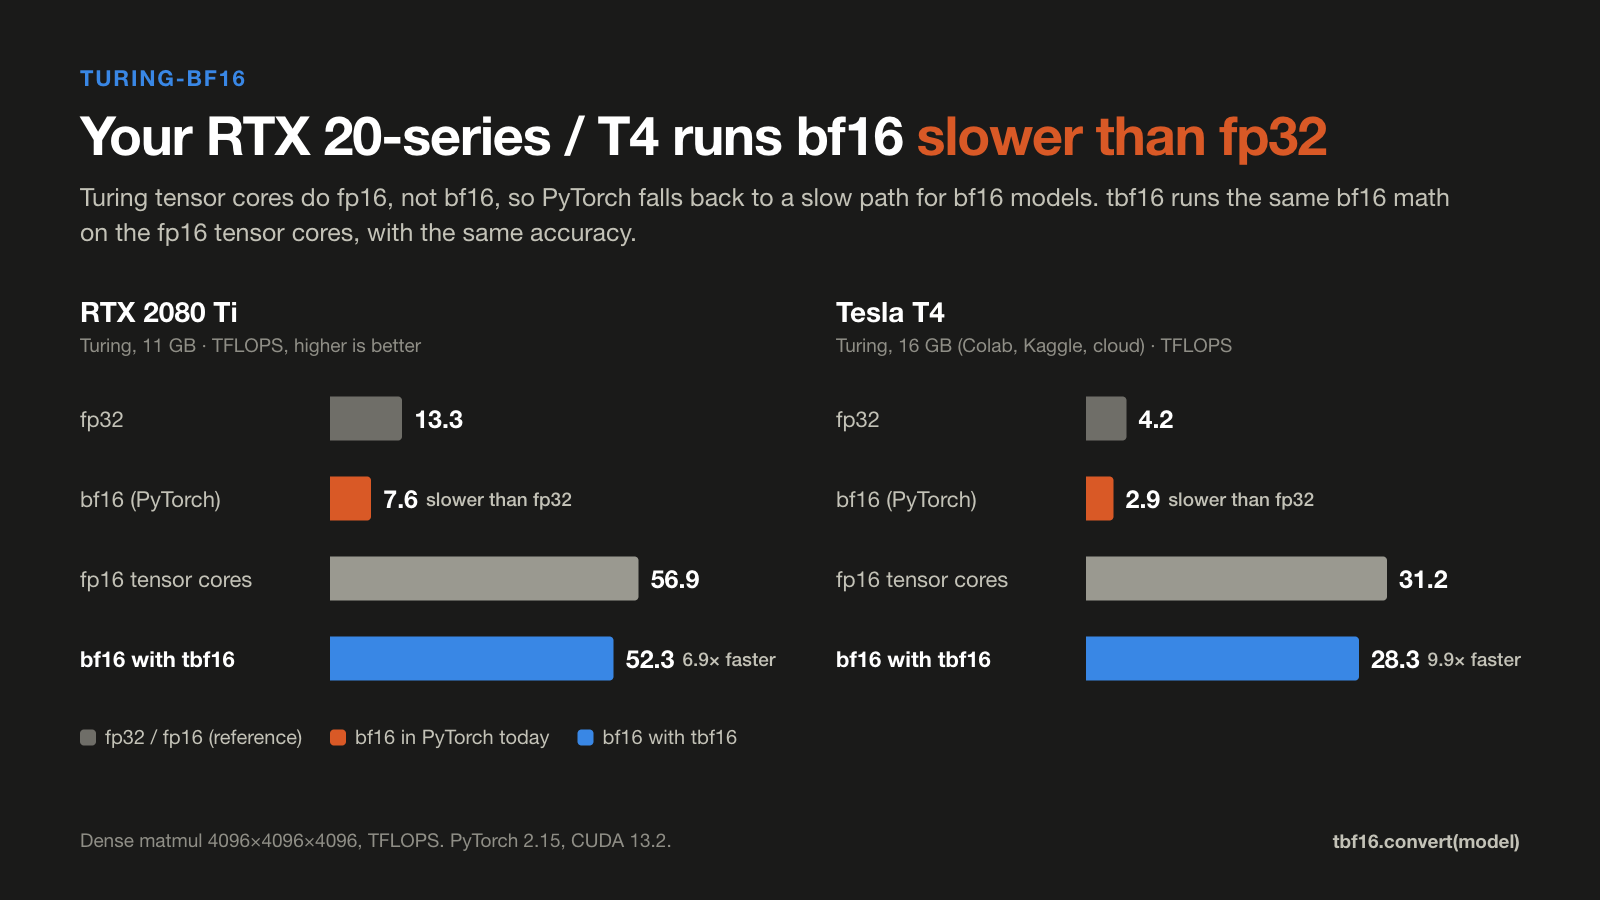
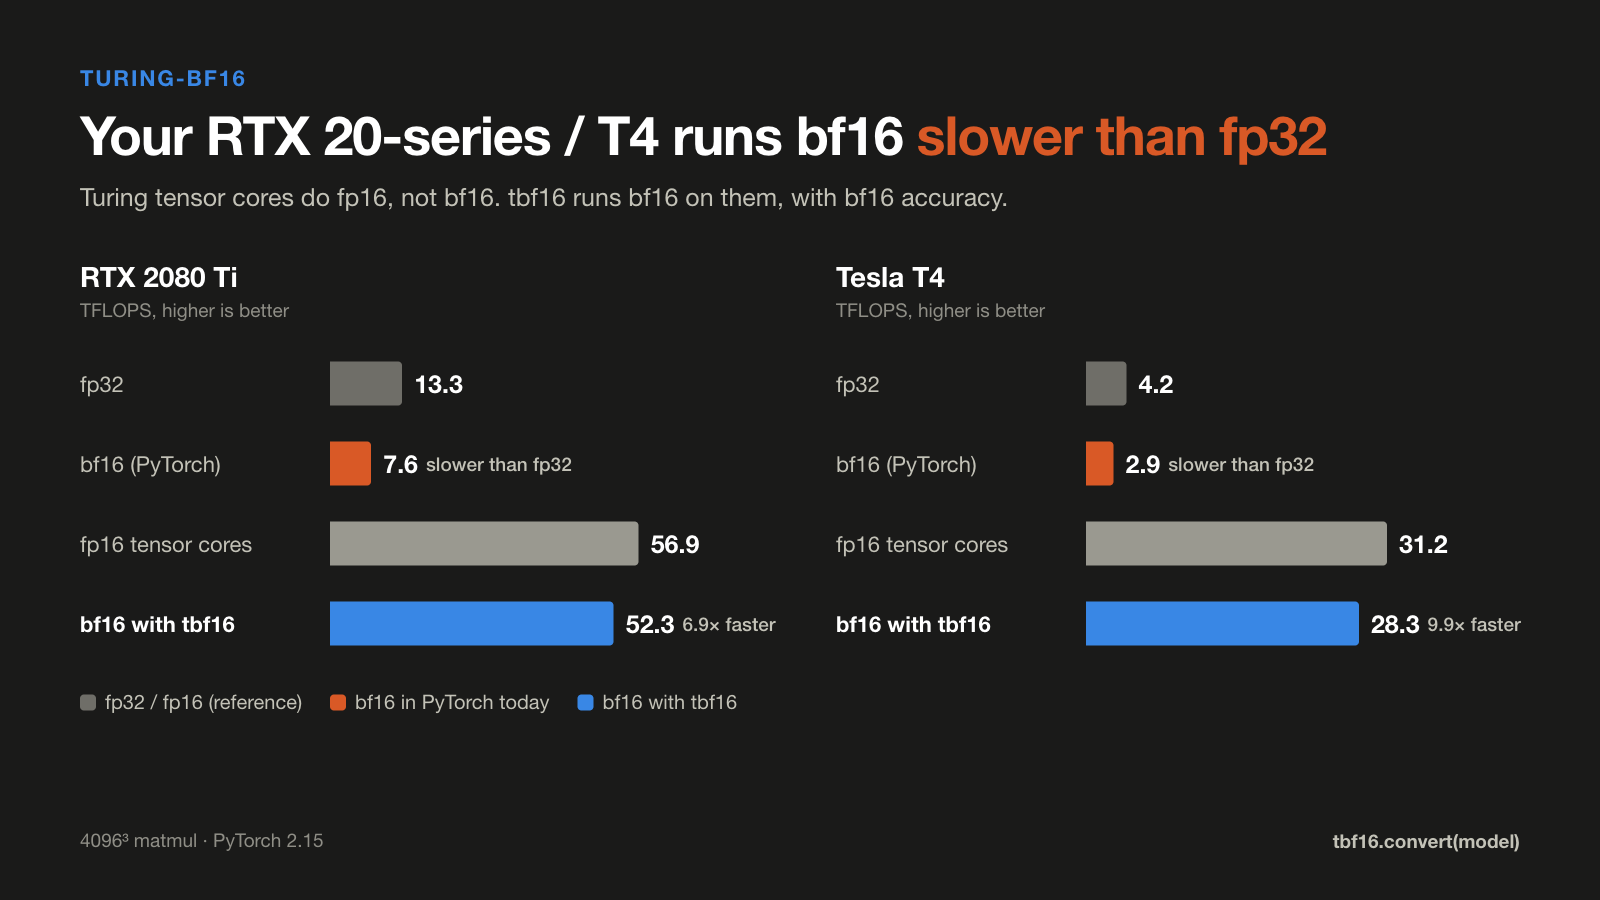
turing-bf16: social images with less text, 'same accuracy' instead of 'same output'; shorter thread

diff --git a/docs/social/2_why.html b/docs/social/2_why.html
@@ -22,25 +22,25 @@
 .steps b { color: var(--text-primary); font-weight: 600; }
 </style></head><body class="viz-root"><div class="card">
 <div class="eyebrow">turing-bf16</div>
-<h1>Running a bf16 model on Turing: three bad options</h1>
+<h1>bf16 on Turing: three bad options</h1>
 <div class="cols">
   <div>
-    <div class="opt bad"><div class="mark">✕</div><div><h3>Run bf16 as-is</h3><p>2.9 TFLOPS on a T4, slower than fp32. Attention has no fused bf16 kernel, so it builds the full S×S matrix and runs out of memory at long contexts.</p></div></div>
-    <div class="opt bad"><div class="mark">✕</div><div><h3>Cast to fp16 <code>model.half()</code></h3><p>Fast, but fp16 tops out at 65,504. Gemma 3 4B outputs NaN.</p></div></div>
-    <div class="opt bad"><div class="mark">✕</div><div><h3>Run in fp32</h3><p>Correct, but 2× the memory and only ~4 TFLOPS on a T4. This is what vLLM and ComfyUI fall back to.</p></div></div>
-    <div class="opt good"><div class="mark">✓</div><div><h3>tbf16: keep bf16, compute on fp16 tensor cores</h3><p>28 TFLOPS on a T4, no overflow, same accuracy as bf16.</p></div></div>
+    <div class="opt bad"><div class="mark">✕</div><div><h3>Run bf16 as-is</h3><p>Slower than fp32. Attention runs out of memory at long context.</p></div></div>
+    <div class="opt bad"><div class="mark">✕</div><div><h3>Cast to fp16 <code>model.half()</code></h3><p>Overflows past 65,504. Gemma 3 4B → NaN.</p></div></div>
+    <div class="opt bad"><div class="mark">✕</div><div><h3>Run in fp32</h3><p>2× the memory, still slow.</p></div></div>
+    <div class="opt good"><div class="mark">✓</div><div><h3>tbf16: bf16 on fp16 tensor cores</h3><p>~10× faster, bf16 accuracy.</p></div></div>
   </div>
   <div class="trick">
-    <h3>The trick: fp16 has <span style="color:var(--tbf16)">more</span> precision than bf16, only less range</h3>
+    <h3>fp16: <span style="color:var(--tbf16)">more</span> precision than bf16, less range</h3>
     <div class="fmt"><span class="mono">bf16</span><div class="bits"><span class="s" style="flex:1">±</span><span class="e" style="flex:8">8-bit exponent</span><span class="m" style="flex:7">7-bit mantissa</span></div></div>
     <div class="fmt"><span class="mono">fp16</span><div class="bits"><span class="s" style="flex:1">±</span><span class="e" style="flex:5">5-bit exp</span><span class="m" style="flex:10">10-bit mantissa</span></div></div>
     <ol class="steps">
-      <li>Scale each row by a <b>power of two</b>. That only changes the exponent, so it is exact.</li>
-      <li>Every bf16 value now converts to fp16 <b>losslessly</b>.</li>
-      <li>Run fp16 tensor cores with <b>fp32 accumulation</b>.</li>
-      <li>Undo the power of two. Same for attention, convs and the backward pass.</li>
+      <li>Scale each row by <b>2<sup>k</sup></b> (exact)</li>
+      <li>Convert to fp16, <b>lossless</b></li>
+      <li>fp16 tensor cores, <b>fp32 accumulate</b></li>
+      <li>Undo 2<sup>k</sup></li>
     </ol>
   </div>
 </div>
-<div class="foot"><span>T4 numbers: dense matmul 4096³, PyTorch 2.15.</span><b class="mono">tbf16.convert(model)</b></div>
+<div class="foot"><span>Tesla T4, 4096³ matmul</span><b class="mono">tbf16.convert(model)</b></div>
 </div></body></html>

diff --git a/docs/social/3_models.html b/docs/social/3_models.html
@@ -13,21 +13,21 @@
 .axis div { position: relative; height: 24px; }
 .axis span { position: absolute; transform: translateX(-50%); }
 </style></head><body class="viz-root"><div class="card">
-<div class="eyebrow">turing-bf16 · real models, one line of code</div>
-<h1>Up to 7× faster bf16 on Turing, same output</h1>
-<div class="sub">Unmodified Hugging Face and diffusers models on a Tesla T4, speedup against the same bf16 model in plain PyTorch. Outputs match native bf16.</div>
+<div class="eyebrow">turing-bf16 · one line of code</div>
+<h1>Up to 7× faster bf16 on Turing</h1>
+<div class="sub">Unmodified models on a Tesla T4, vs plain PyTorch bf16. Same accuracy.</div>
 <div class="chart" id="chart"></div>
 <div class="axis" id="axis"></div>
 <div class="legend" style="margin-top:18px"><span><i style="background:var(--tbf16)"></i>speedup with tbf16</span><span><i style="background:var(--bf16);width:4px;border-radius:1px"></i>native bf16 = 1×</span></div>
-<div class="foot" style="margin-top:auto"><span>T4 (16 GB) except LoRA training (RTX 2080 Ti). Prompt = prefill. Full numbers in RESULTS.md.</span><b class="mono">tbf16.convert(model)</b></div>
+<div class="foot" style="margin-top:auto"><span>LoRA on RTX 2080 Ti</span><b class="mono">tbf16.convert(model)</b></div>
 </div>
 <script>
 const max = 11.5;
 const rows = [
-  ["Qwen3-1.7B", "4,096-token prompt", 7.4, "8k tokens: native OOMs"],
-  ["Wan2.1 1.3B text-to-video", "per denoising step, 480p", 6.1, "81-frame video: native OOMs"],
-  ["Gemma 3 4B", "2,048-token prompt", 6.0, "model.half() gives NaN"],
-  ["Sana 1600M text-to-image", "per step, 1024×1024", 5.6, "native bf16 VAE can't decode"],
+  ["Qwen3-1.7B", "4,096-token prompt", 7.4, "native OOMs at 8k"],
+  ["Wan2.1 1.3B text-to-video", "per denoising step, 480p", 6.1, "native OOMs at 81 frames"],
+  ["Gemma 3 4B", "2,048-token prompt", 6.0, ".half() → NaN"],
+  ["Sana 1600M text-to-image", "per step, 1024×1024", 5.6, "bf16 VAE can't decode"],
   ["UMT5-XXL text encoder", "8 prompts × 512 tokens", 5.3, ""],
   ["LoRA fine-tuning, Qwen3-1.7B", "per training step", 2.6, "same loss curve"],
 ];

diff --git a/docs/social/1_hook.html b/docs/social/1_hook.html
@@ -14,17 +14,17 @@
 </style></head><body class="viz-root"><div class="card">
 <div class="eyebrow">turing-bf16</div>
 <h1>Your RTX 20-series / T4 runs bf16 <span style="color:var(--bf16)">slower than fp32</span></h1>
-<div class="sub">Turing tensor cores do fp16, not bf16, so PyTorch falls back to a slow path for bf16 models. tbf16 runs the same bf16 math on the fp16 tensor cores, with the same accuracy.</div>
+<div class="sub">Turing tensor cores do fp16, not bf16. tbf16 runs bf16 on them, with bf16 accuracy.</div>
 <div class="panels" id="panels"></div>
 <div class="legend"><span><i style="background:var(--neutral)"></i>fp32 / fp16 (reference)</span><span><i style="background:var(--bf16)"></i>bf16 in PyTorch today</span><span><i style="background:var(--tbf16)"></i>bf16 with tbf16</span></div>
-<div class="foot"><span>Dense matmul 4096×4096×4096, TFLOPS. PyTorch 2.15, CUDA 13.2.</span><b>tbf16.convert(model)</b></div>
+<div class="foot"><span>4096³ matmul · PyTorch 2.15</span><b>tbf16.convert(model)</b></div>
 </div>
 <script>
 const data = [
-  { gpu: "RTX 2080 Ti", note: "Turing, 11 GB · TFLOPS, higher is better", max: 80, rows: [
+  { gpu: "RTX 2080 Ti", note: "TFLOPS, higher is better", max: 80, rows: [
     ["fp32", 13.3, "var(--neutral)"], ["bf16 (PyTorch)", 7.6, "var(--bf16)", "slower than fp32"],
     ["fp16 tensor cores", 56.9, "var(--neutral-light)"], ["<b>bf16 with tbf16</b>", 52.3, "var(--tbf16)", "6.9× faster"]]},
-  { gpu: "Tesla T4", note: "Turing, 16 GB (Colab, Kaggle, cloud) · TFLOPS", max: 45, rows: [
+  { gpu: "Tesla T4", note: "TFLOPS, higher is better", max: 45, rows: [
     ["fp32", 4.2, "var(--neutral)"], ["bf16 (PyTorch)", 2.85, "var(--bf16)", "slower than fp32"],
     ["fp16 tensor cores", 31.2, "var(--neutral-light)"], ["<b>bf16 with tbf16</b>", 28.3, "var(--tbf16)", "9.9× faster"]]},
 ];

diff --git a/docs/social/0_lead.html b/docs/social/0_lead.html
@@ -16,14 +16,14 @@ pre { font-family: "JetBrains Mono", "SF Mono", Menlo, monospace; font-size: 32p
 .sub { font-size: 28px; margin-top: 20px; }
 </style></head><body class="viz-root"><div class="card">
 <h1>My GPU <span class="q">“supports”</span> bf16.</h1>
-<div class="sub">This repo came out of frustration: our lab server is full of RTX 2080 Tis, and every new model ships in bf16.</div>
+<div class="sub">Born out of frustration: a lab full of RTX 2080 Tis, and every new model ships in bf16.</div>
 <div class="term"><div class="bar"><i></i><i></i><i></i><span>python · RTX 2080 Ti</span></div>
 <pre><span class="p">&gt;&gt;&gt;</span> torch.cuda.is_bf16_supported()
 <span class="out">True</span>
 <span class="p">&gt;&gt;&gt;</span> model.bfloat16()           <span class="x">✕</span><span class="c"> 7.6 TFLOPS. Slower than fp32.</span>
 <span class="p">&gt;&gt;&gt;</span> model.half()               <span class="x">✕</span><span class="c"> Gemma 3 4B: NaN</span>
 <span class="p">&gt;&gt;&gt;</span> model.float()              <span class="x">✕</span><span class="c"> 2× the memory, 13 TFLOPS</span>
-<span class="p">&gt;&gt;&gt;</span> <span class="hl">tbf16.convert(model)</span>       <span class="ok">✓</span><span class="c"> 52 TFLOPS, same output as bf16</span></pre>
+<span class="p">&gt;&gt;&gt;</span> <span class="hl">tbf16.convert(model)</span>       <span class="ok">✓</span><span class="c"> 52 TFLOPS, bf16 accuracy</span></pre>
 </div>
-<div class="foot"><span>turing-bf16: run bf16 models on fp16 tensor cores, exactly. RTX 20xx · T4 · Quadro RTX · TITAN RTX</span><b>Thread ↓</b></div>
+<div class="foot"><span>turing-bf16 · RTX 20xx · T4 · Quadro RTX</span><b>Thread ↓</b></div>
 </div></body></html>

diff --git a/docs/social/4_video.html b/docs/social/4_video.html
@@ -11,14 +11,14 @@
 .tile b { color: var(--text-primary); }
 </style></head><body class="viz-root"><div class="card">
 <div class="eyebrow">turing-bf16 · Wan2.1 1.3B on a Tesla T4</div>
-<h1>Same video frame, 6× faster</h1>
+<h1>Same video, 6× faster</h1>
 <div class="frames">
   <div class="frame"><img src="wan_17x480x832_bf16_full.png"><div class="cap"><span class="who" style="color:var(--bf16)">native bf16</span><span class="t">27.2 s<small>per step</small></span></div></div>
   <div class="frame"><img src="wan_17x480x832_tbf16_full.png"><div class="cap"><span class="who" style="color:var(--tbf16)">bf16 with tbf16</span><span class="t">4.45 s<small>per step</small></span></div></div>
 </div>
 <div class="tiles">
-  <div class="tile"><b>Full 81-frame 480p video on a 16 GB T4:</b> native bf16 runs out of memory; with tbf16 it finishes in about 14 minutes.</div>
-  <div class="tile"><b>Same output:</b> 36 dB PSNR to the native bf16 frame, and the same error against fp32 as native bf16 (9.0e-3 per denoising step).</div>
+  <div class="tile"><b>81 frames, 480p:</b> native bf16 runs out of memory · tbf16 ~14 min</div>
+  <div class="tile"><b>Same accuracy</b> as native bf16 (36 dB PSNR)</div>
 </div>
-<div class="foot"><span>Prompt "A cat walks on the grass, realistic, sunny afternoon…", 17×480×832, 20 steps, same seed. Middle frame shown.</span><b class="mono">tbf16.convert(pipe)</b></div>
+<div class="foot"><span>17×480×832, 20 steps, same seed</span><b class="mono">tbf16.convert(pipe)</b></div>
 </div></body></html>

diff --git a/docs/social/thread.md b/docs/social/thread.md
@@ -1,69 +1,44 @@
 1/ [image: 0_lead.png]
 My GPU "supports" bf16.
 
-torch.cuda.is_bf16_supported() → True on an RTX 2080 Ti or a T4.
+torch.cuda.is_bf16_supported() → True on an RTX 2080 Ti or T4.
 
 Then bf16 runs slower than fp32.
 
-Our lab server is full of 2080 Tis and every new model ships in bf16. So, out of pure frustration, we built turing-bf16 🧵
+Out of pure frustration, we built turing-bf16 🧵
 
 ---
 2/ [image: 1_hook.png]
-Turing tensor cores do fp16, not bf16. PyTorch quietly falls back to a slow path:
+Turing tensor cores do fp16, not bf16. So PyTorch falls back to a slow path.
 
-2080 Ti: bf16 7.6 TFLOPS, fp32 13.3
-T4: bf16 2.9 TFLOPS, fp32 4.2
-
-Meanwhile the fp16 tensor cores sit right there at 57 / 31 TFLOPS.
+tbf16 runs bf16 on the fp16 tensor cores: 7–10× faster matmuls, bf16 accuracy.
 
 ---
 3/ [image: 2_why.png]
-The usual workarounds all hurt:
+The trick: fp16 has MORE precision than bf16, just less range.
 
-• bf16 as-is: slow, and attention runs out of memory at long context
-• .half(): overflows past 65,504. Gemma 3 4B gives NaN
-• fp32: 2× the memory
+Scale each row by 2^k (exact), convert to fp16 losslessly, run the tensor cores, undo 2^k.
 
-The way out: fp16 has MORE mantissa bits than bf16 (10 vs 7). It only lacks range.
+No calibration, no clamping.
 
 ---
-4/
-So: scale each row by a power of two (exact, it only touches the exponent), convert to fp16 losslessly, run the fp16 tensor cores with fp32 accumulation, undo the scale.
+4/ [image: 3_models.png]
+Unmodified models on a T4, one line: tbf16.convert(model)
 
-Same trick for attention, convs and the backward pass. No calibration, no clamping.
+Qwen3 7.4× · Wan2.1 6.1× · Gemma 3 6.0× · Sana 5.6×
 
----
-5/ [image: 3_models.png]
-On unmodified Hugging Face / diffusers models (T4):
-
-Qwen3-1.7B prefill: 7.4×
-Wan2.1 video: 6.1×
-Gemma 3 4B: 6.0× (where .half() gives NaN)
-Sana image: 5.6×
-LoRA fine-tuning: 2.6× (2080 Ti)
-
-One line: tbf16.convert(model). Output matches native bf16.
+Same accuracy as native bf16. Training works too.
 
 ---
-6/ [image: 4_video.png]
-Wan2.1 1.3B on a 16 GB T4: 27.2 s → 4.45 s per denoising step.
+5/ [image: 4_video.png]
+Wan2.1 on a 16 GB T4: 27 s → 4.5 s per step.
 
-The full 81-frame 480p video runs out of memory in native bf16. With tbf16 it finishes in about 14 minutes.
-
----
-7/
-Honest notes:
-
-• If your model is fp16-safe, .half() is as fast or a bit faster. tbf16 is for when it isn't, or when you don't know.
-• Token-by-token decoding is memory bound, so it's the same speed.
-• Ampere and newer have real bf16; tbf16 does nothing there.
+The full 81-frame video runs out of memory in native bf16. With tbf16 it finishes in ~14 min.
 
 ---
-8/
-Works on RTX 20xx, T4 (Colab, Kaggle), Quadro RTX and TITAN RTX. Inference and training, transformers and diffusers.
+6/
+If your model is fp16-safe, .half() is still fine. tbf16 is for when it isn't, or when you don't know.
 
-`python -m tbf16` checks your GPU in about a minute.
+Credit to WanGP and fp16-fixer, who used similar tricks for specific models.
 
-Credit to WanGP, who used the same trick for convs.
-
-Repo: [link]
+RTX 20xx · T4 · Quadro RTX: [link]
